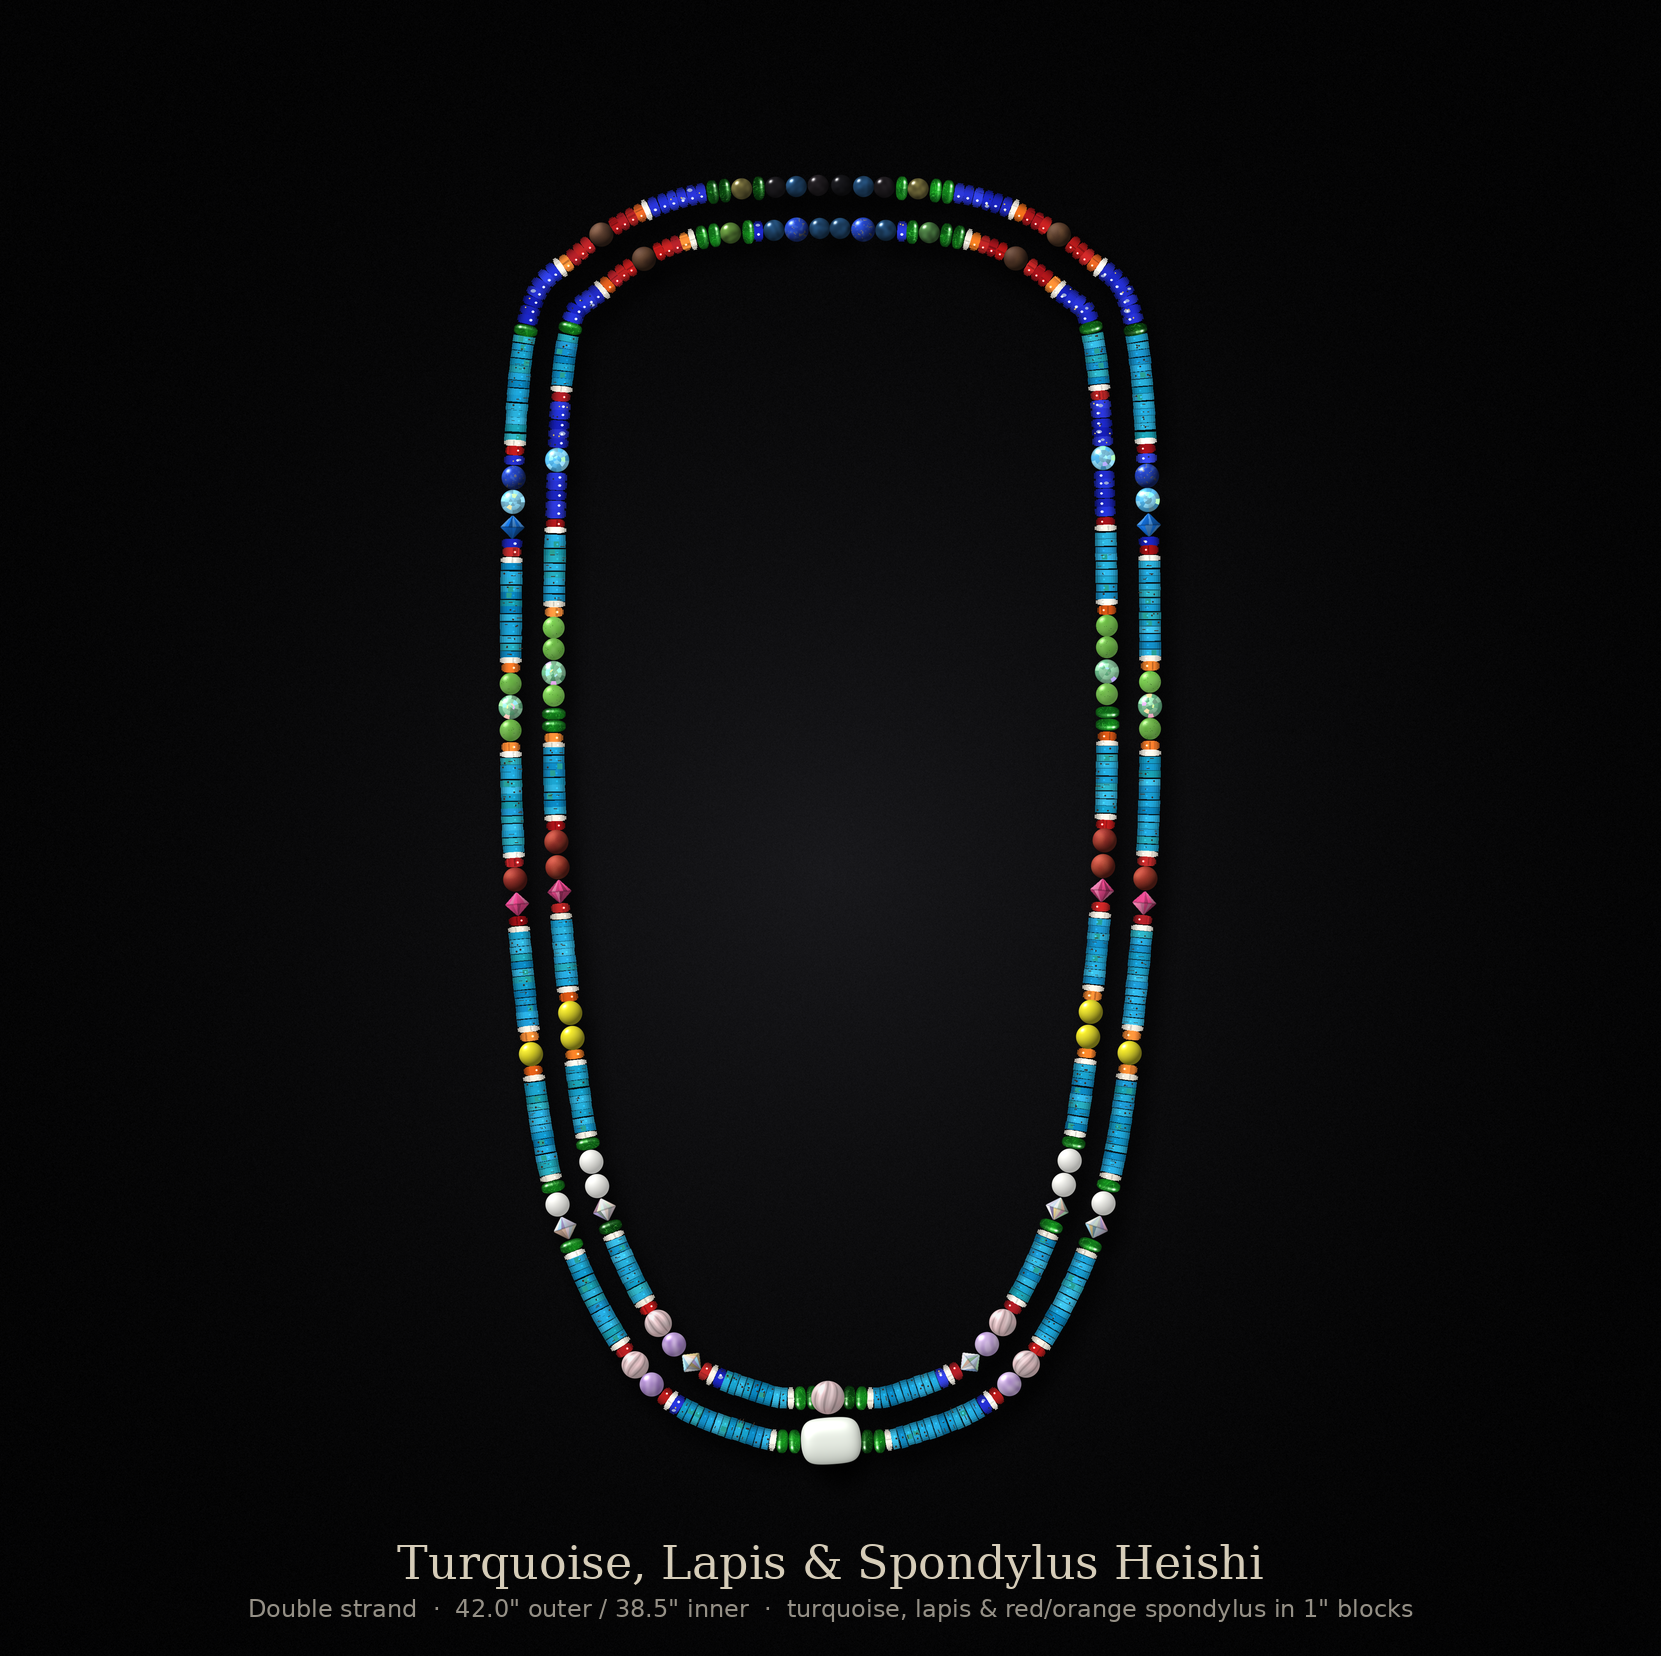
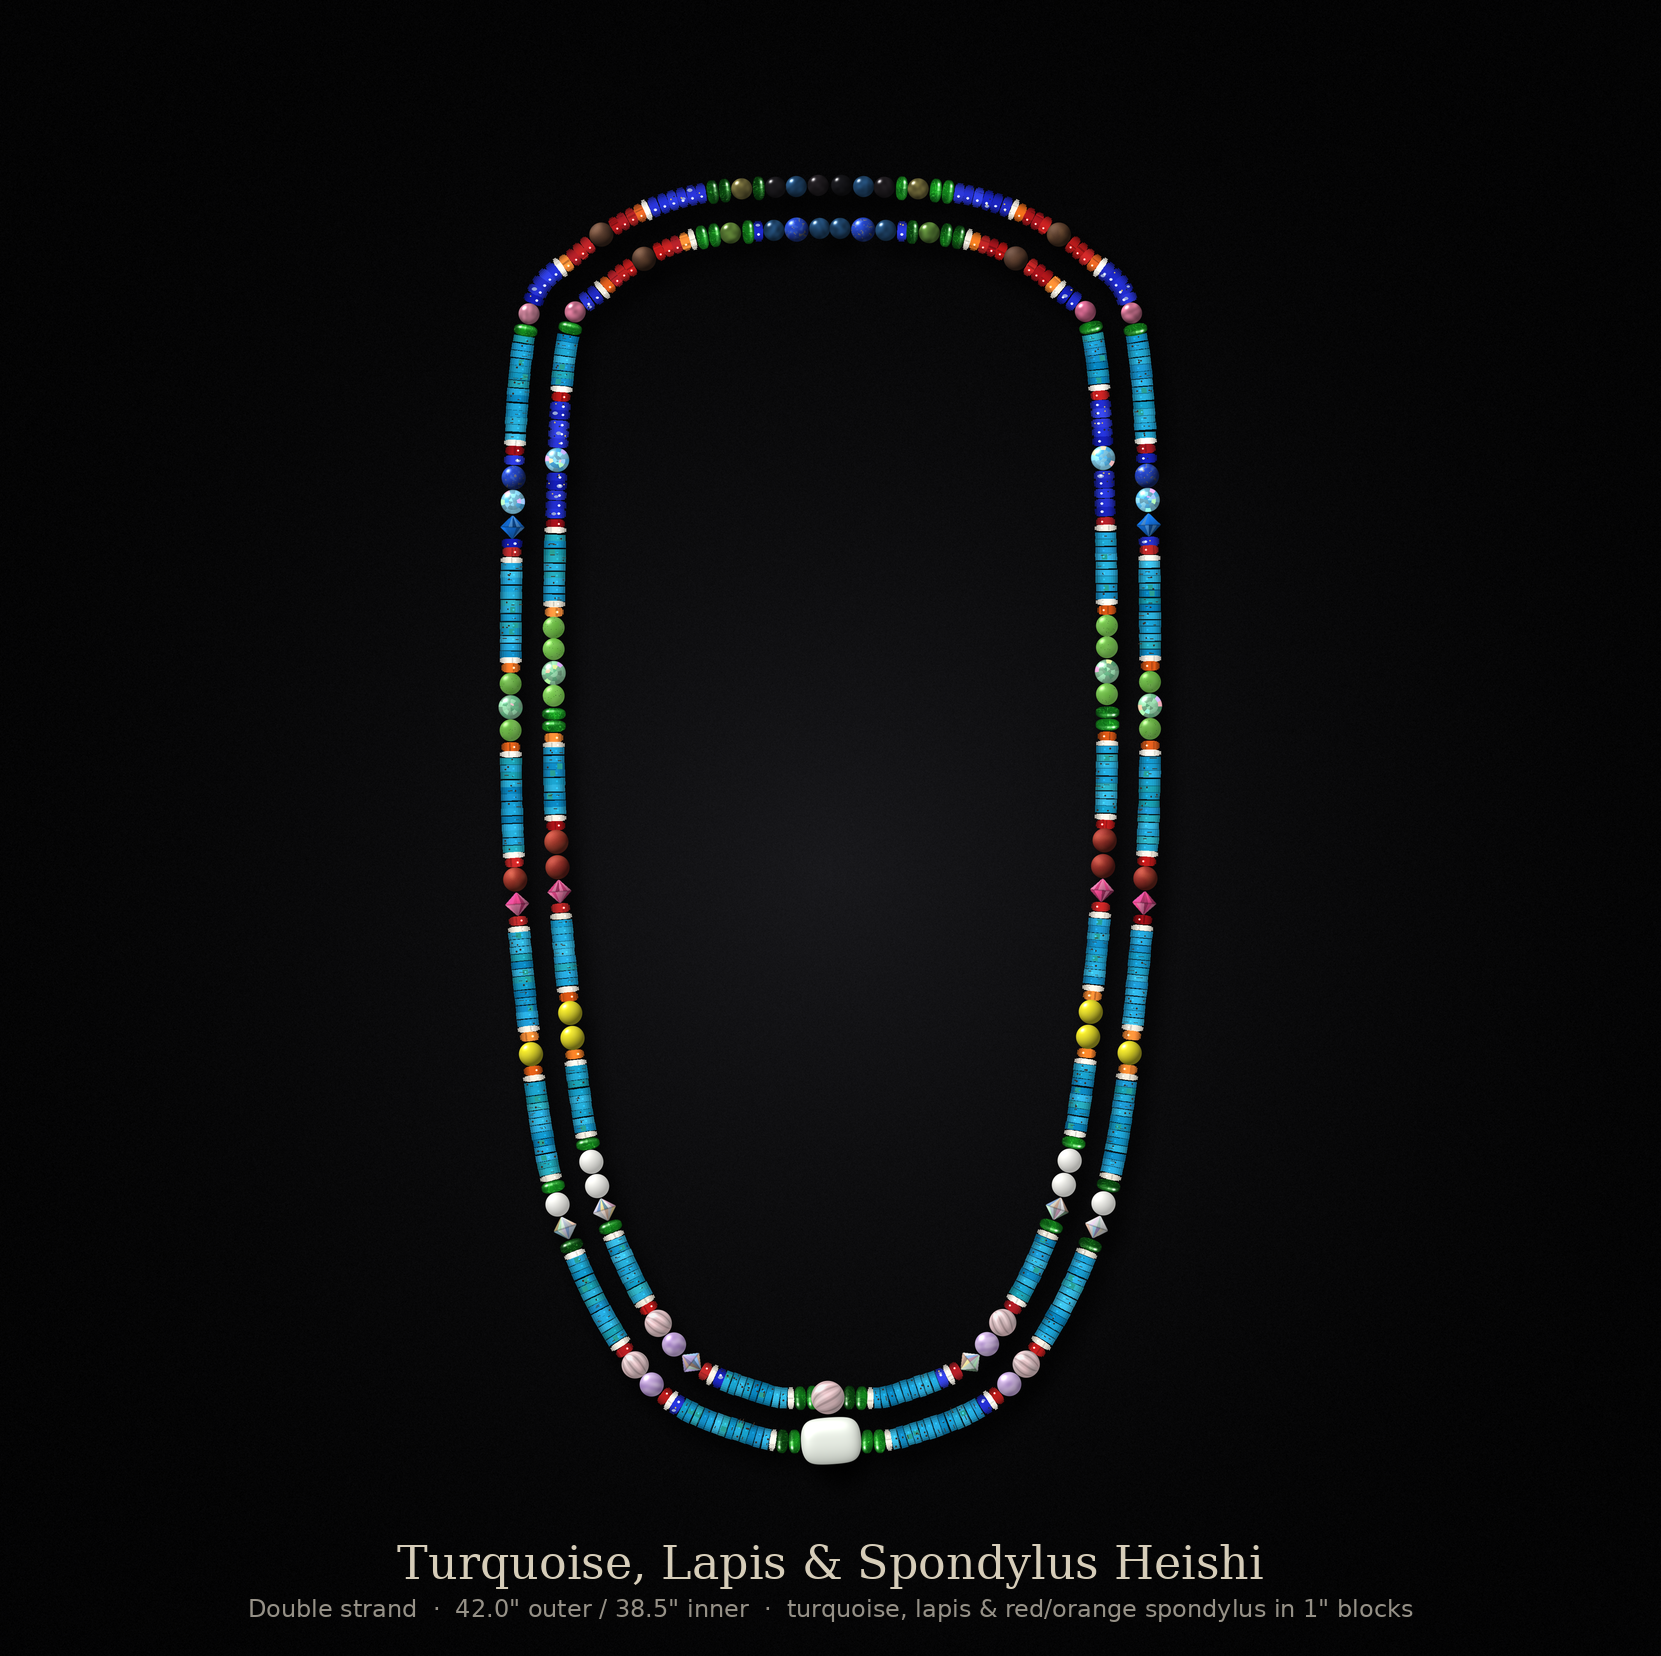
Version 5: pink tourmaline above the top diopside, room from the lapis
Claude-Session: https://claude.ai/code/session_014be1vF4Rdf8sv9Si75Gudv

diff --git a/necklace/render_necklace.py b/necklace/render_necklace.py
@@ -1559,11 +1559,14 @@ if V4:
                     V4_USED["lapisH"] = V4_USED.get("lapisH", 0) + 2 * nl
                 elif V5 and gi == 3 and gl >= 13.0:       # red-to-blue run: tourmalines in the upper half, turquoise in the lower half
                     nt = max(1, int(round((gl - GAP3_EXTRA.get(st, 0.0)) / 2 / 7.0)))   # same tourmalines as before
-                    _ll = 7.0 * nt                           # upper part: plain lapis heishi (was tourmaline rounds)
-                    nl2 = max(1, int(round(_ll / 3.0)))
+                    _ll = 7.0 * nt - SZ["pink"]              # upper part: plain lapis heishi, then a pink tourmaline
+                    nl2 = max(1, int(round(_ll / 3.0))) if _ll > 1.5 else 0
                     for q in range(nl2):
                         put(g + _ll / nl2 * (q + 0.5), "lapisH")
                     V4_USED["lapisH"] = V4_USED.get("lapisH", 0) + 2 * nl2
+                    put(g + _ll + SZ["pink"] / 2, "pink")    # pink tourmaline above the diopside (room from the lapis)
+                    V4_USED["pink"] = V4_USED.get("pink", 0) + 2
+                    _ll += SZ["pink"]
                     put(g + _ll + SZ["diop"] / 2, "diop")    # chrome diopside where the lapis meets the turquoise
                     V4_USED["diop"] = V4_USED.get("diop", 0) + 2
                     _t0, _tl = g + _ll + SZ["diop"], gl - _ll - SZ["diop"]
